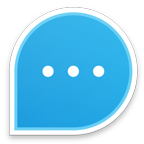
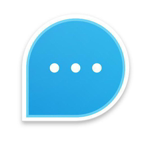
Jun 16

diff --git a/app/index.html b/app/index.html
@@ -35,7 +35,7 @@
 
   <meta property="og:title" content="Telegreat Web 中文網頁版">
   <meta property="og:url" content="https://web.telegre.at/">
-  <meta property="og:image" content="https://web.telegre.at/logo_share.png">
+  <meta property="og:image" content="https://web.telegre.at/img/logo_share.png">
   <meta property="og:site_name" content="Telegreat Web 中文網頁版">
   <meta property="description" content="歡迎使用中文的 Telegreat Web 網頁版，請至 https://telegre.at/ 以取得更多資訊 ">
   <meta property="og:description" content="歡迎使用中文的 Telegreat Web 網頁版，請至 https://telegre.at/ 以取得更多資訊 ">
@@ -97,7 +97,7 @@
 
   <!--PRODUCTION_ONLY_BEGIN
     <script type="text/javascript" src="js/templates.js"></script>
-     PRODUCTION_ONLY_END-->
+        PRODUCTION_ONLY_END-->
 
   <script type="text/javascript" src="js/message_composer.js"></script>
   <script type="text/javascript" src="js/directives.js"></script>

diff --git a/app/less/app.less b/app/less/app.less
@@ -981,7 +981,7 @@ a.tg_radio_on:hover i.icon-radio {
   height: 14px;
   display: inline-block;
   vertical-align: middle;
-  background-image: url('../img/Telegram.svg');
+  background-image: url('../img/Telegreat.svg');
   background-repeat: no-repeat;
   background-position: 0 0;
   margin-top: 1px;
